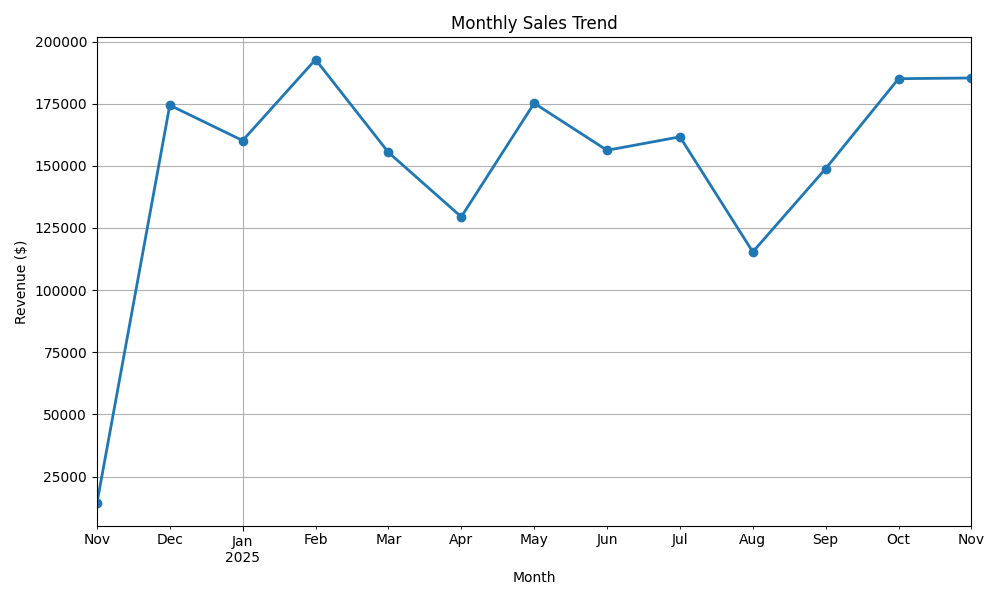
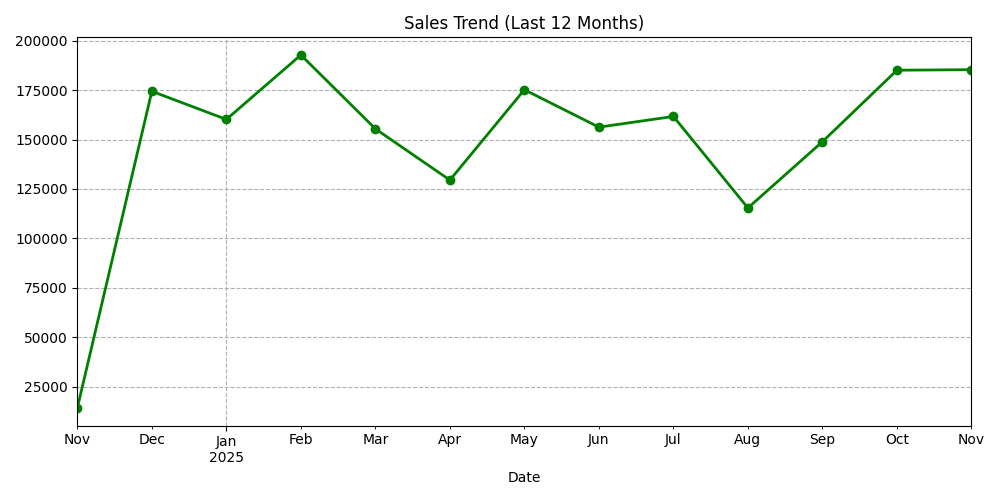
Sucessfully generated the report right now its manual but its showing in pdf form

Changed region(s): [[0.0, 0.03, 0.992, 0.99], [0.217, 0.69, 0.248, 0.72]]

diff --git a/excel_to_pdf_project/generate_report.py b/excel_to_pdf_project/generate_report.py
@@ -1,0 +1,109 @@
+import pandas as pd
+import os
+import matplotlib.pyplot as plt
+from fpdf import FPDF  # <--- The new library
+
+class PDFReport(FPDF):
+    """
+    Custom PDF class to define a standard Header and Footer
+    that appears on every page automatically.
+    """
+    def header(self):
+        # Set font: Arial, Bold, 12pt
+        self.set_font('Arial', 'B', 12)
+        # Title
+        self.cell(0, 10, 'Monthly Business Review', border=False, ln=True, align='C')
+        # Line break
+        self.ln(5)
+
+    def footer(self):
+        # Position at 1.5 cm from bottom
+        self.set_y(-15)
+        # Arial italic 8
+        self.set_font('Arial', 'I', 8)
+        # Page number
+        self.cell(0, 10, f'Page {self.page_no()}', align='C')
+
+def create_report():
+    # ==========================
+    # 1. SETUP & PATHS
+    # ==========================
+    current_folder = os.path.dirname(os.path.abspath(__file__))
+    input_file = os.path.join(current_folder, "sales_data.xlsx")
+    chart_file = os.path.join(current_folder, "sales_chart.png")
+    pdf_file = os.path.join(current_folder, "Final_Report.pdf")
+
+    print("1. Loading Data...")
+    df = pd.read_excel(input_file)
+
+    # ==========================
+    # 2. ANALYTICS
+    # ==========================
+    print("2. Analyzing Data...")
+    total_revenue = df['Total_Price'].sum()
+    
+    # Top Region
+    region_stats = df.groupby('Region')['Total_Price'].sum().sort_values(ascending=False)
+    top_region = region_stats.index[0]
+    top_region_val = region_stats.iloc[0]
+
+    # Top Product
+    prod_stats = df.groupby('Product')['Total_Price'].sum().sort_values(ascending=False)
+    top_product = prod_stats.index[0]
+    top_product_val = prod_stats.iloc[0]
+
+    # ==========================
+    # 3. CHART GENERATION
+    # ==========================
+    print("3. Generating Chart...")
+    df['Date'] = pd.to_datetime(df['Date'])
+    monthly_sales = df.groupby(df['Date'].dt.to_period('M'))['Total_Price'].sum()
+
+    plt.figure(figsize=(10, 5))
+    monthly_sales.plot(kind='line', marker='o', color='green', linewidth=2)
+    plt.title('Sales Trend (Last 12 Months)')
+    plt.grid(True, linestyle='--')
+    plt.tight_layout()
+    plt.savefig(chart_file, dpi=100) # dpi=100 keeps file size low
+    plt.close()
+
+    # ==========================
+    # 4. PDF ASSEMBLY
+    # ==========================
+    print("4. Building PDF...")
+    
+    pdf = PDFReport()
+    pdf.add_page()
+    pdf.set_font('Arial', '', 12)
+
+    # -- Summary Section --
+    pdf.set_font('Arial', 'B', 14)
+    pdf.cell(0, 10, 'Executive Summary', ln=True)
+    pdf.ln(5) # Add 5mm vertical space
+
+    pdf.set_font('Arial', '', 12)
+    # Use multi_cell for paragraph text that wraps automatically
+    summary_text = (
+        f"This report covers the sales performance for the last fiscal year. "
+        f"The total revenue generated was ${total_revenue:,.2f}.\n\n"
+        f"The top performing region was {top_region} with sales of ${top_region_val:,.2f}. "
+        f"The best-selling product category was {top_product}, generating ${top_product_val:,.2f}."
+    )
+    pdf.multi_cell(0, 8, summary_text)
+    
+    pdf.ln(10)
+
+    # -- Chart Section --
+    pdf.set_font('Arial', 'B', 14)
+    pdf.cell(0, 10, 'Sales Visualization', ln=True)
+    
+    # Insert Image: image(path, x, y, width)
+    # w=180 means it takes up most of the A4 page width
+    pdf.image(chart_file, x=15, w=180)
+
+    # -- Save PDF --
+    pdf.output(pdf_file)
+    print(f"✅ SUCCESS! Report generated: {pdf_file}")
+
+if __name__ == "__main__":
+    create_report()
